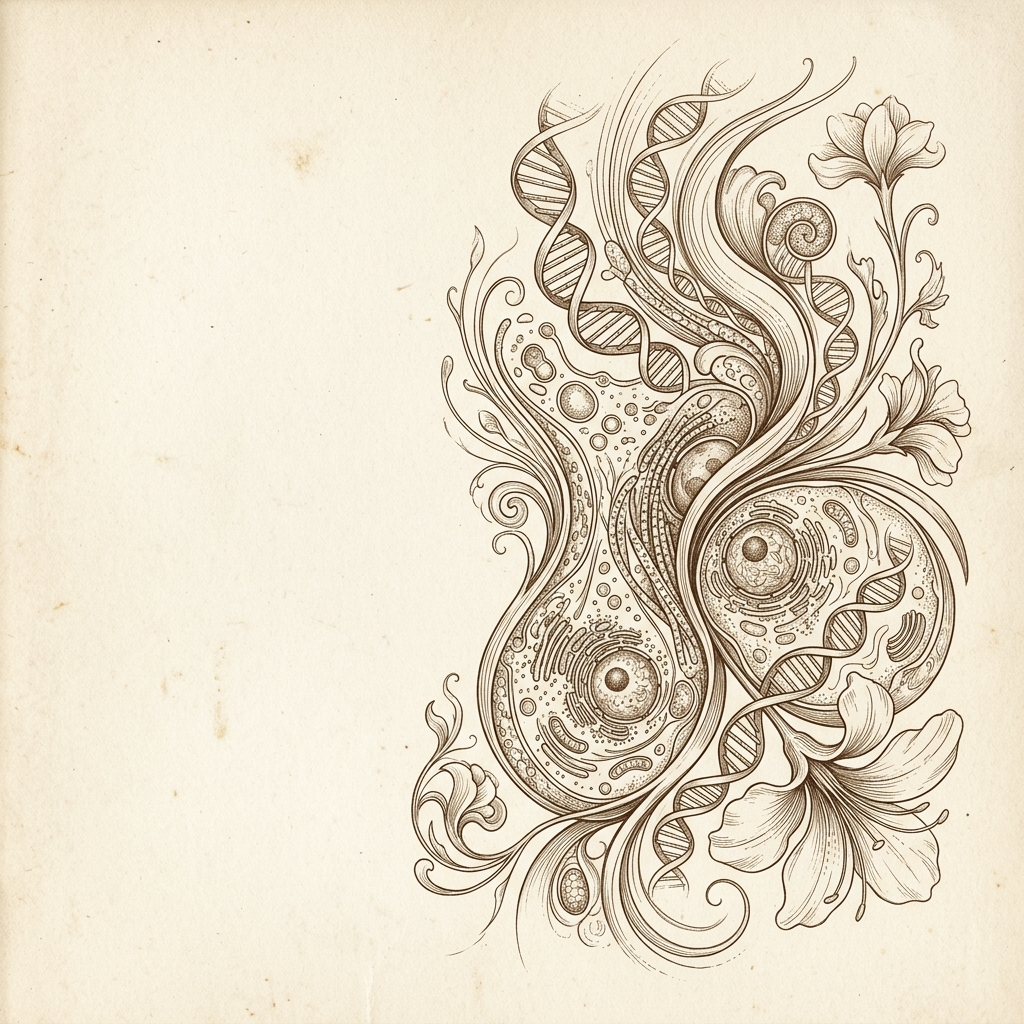
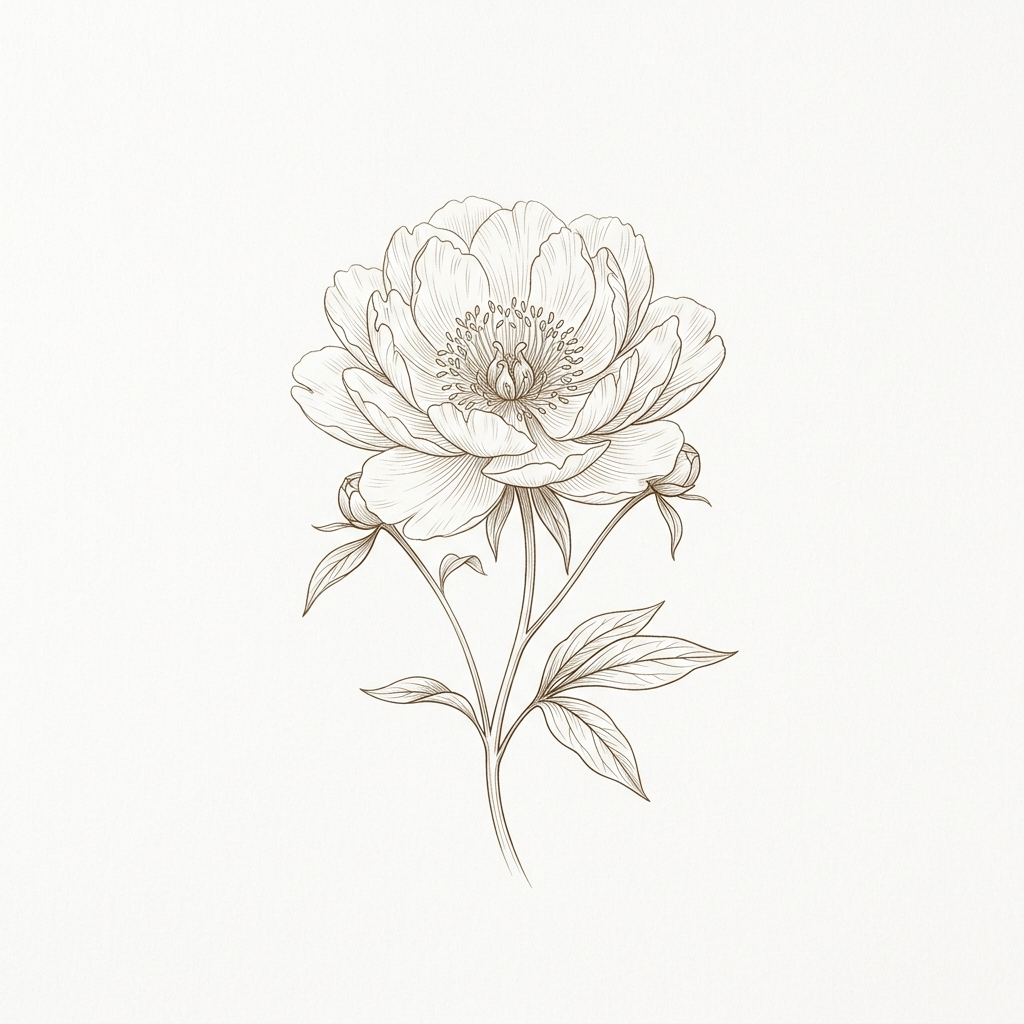
fix background image scaling and positioning to mimic Hertility layout

diff --git a/app/globals.css b/app/globals.css
@@ -727,10 +727,11 @@ ul, ol {
   overflow: hidden;
   padding-top: 80px;
   background-image: url('/bg-hero-vintage.png');
-  background-size: cover;
-  background-position: right center;
+  background-size: 55% auto;
+  background-position: right -5% center;
   background-repeat: no-repeat;
   background-blend-mode: multiply;
+  background-color: var(--sand);
 }
 
 .hero__canvas {
